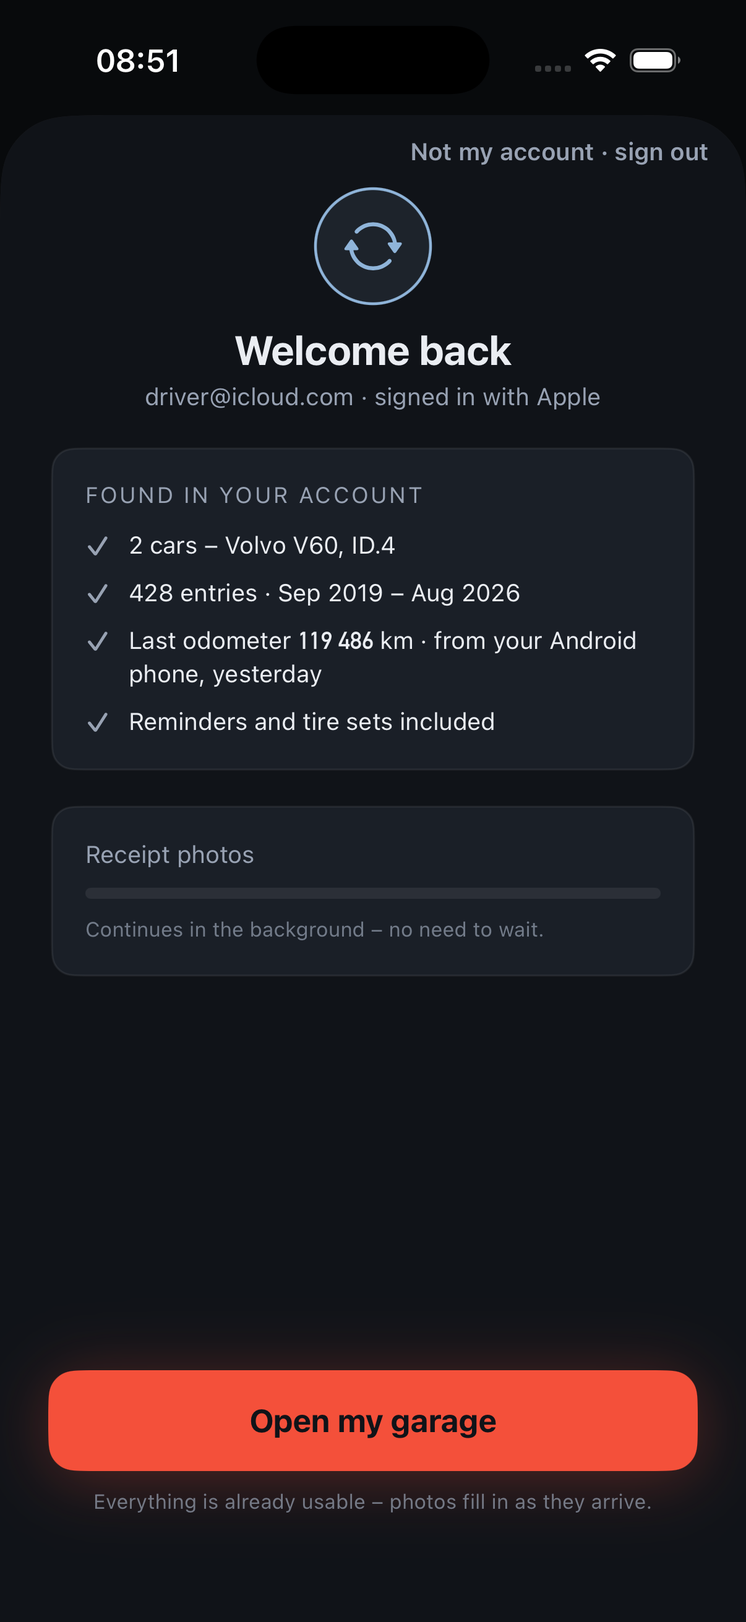
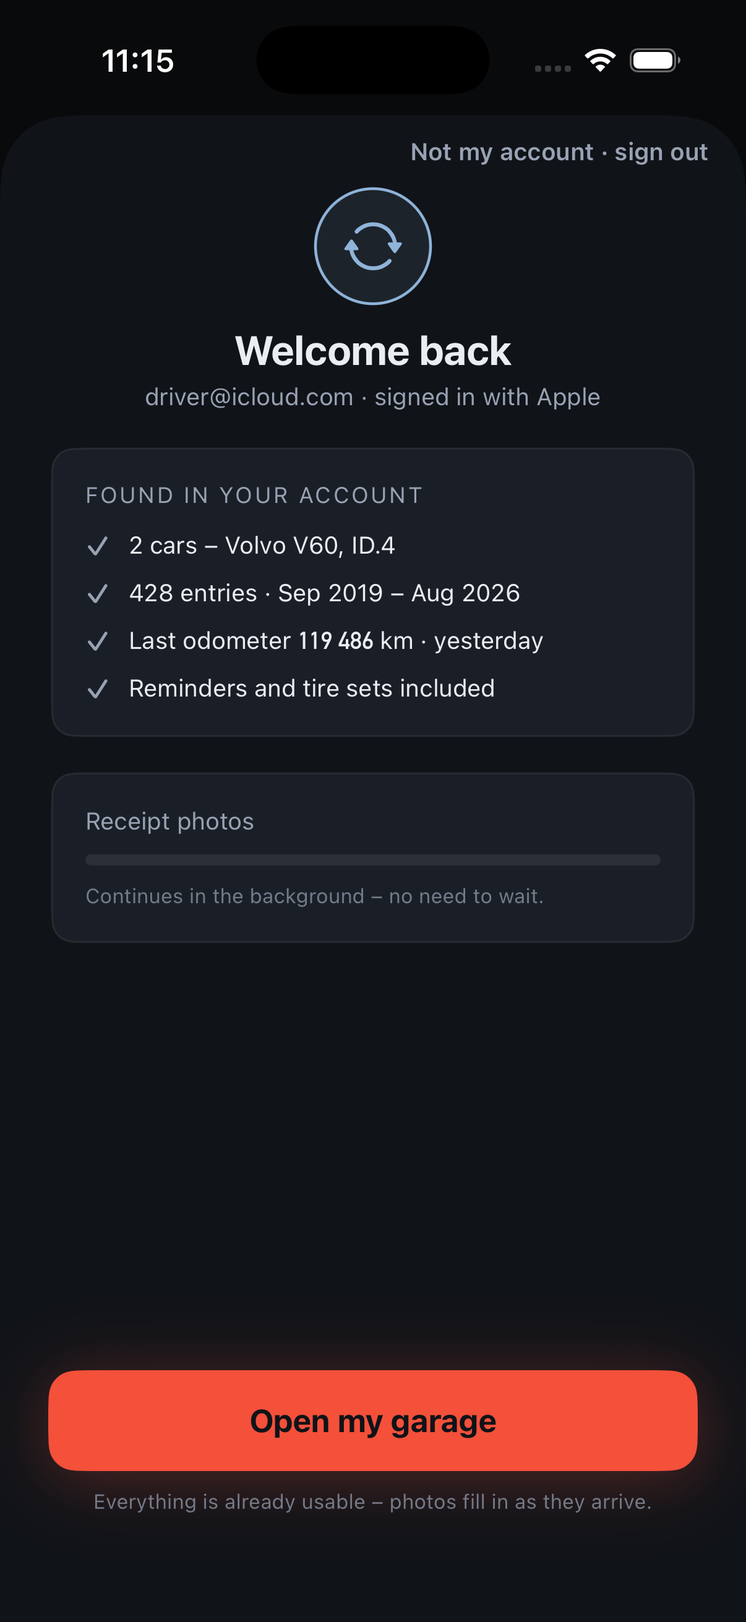
RV.261: the restore screen says how recent the last odometer is; the source device is v2
lastOdometerDaysAgo is derived from the entries and renders as
'N days ago'; the never-set device name and its dead formatter go, and
J11's clause marks the device half [v2] as SCHEMA.md already does.
Mutation red 2/2 in the orchestrator's hands; swift test 0 at 2061,
lint 0, SignInUITests 13/14 (RV.257's flake), Release build 0.

diff --git a/ios/App/UITests/SignInUITests.swift b/ios/App/UITests/SignInUITests.swift
@@ -234,6 +234,43 @@ final class SignInUITests: XCTestCase {
         XCTAssertTrue(app.buttons["restoringSignOutButton"].exists)
     }
 
+    /// RV.261: the last-odometer recency is the v1 half of J11's provenance
+    /// clause. `-signInRestoreDaysAgo 3` seeds the plural form so the suffix is
+    /// asserted as "N days ago"; the source device ("from your Android phone")
+    /// is [v2] and must never render.
+    func testRestoringScreenShowsTheLastOdometerRecency() {
+        let app = launch(["-presentScreen", "signIn", "-signInRestore",
+                          "-signInRestoreDaysAgo", "3"])
+
+        XCTAssertTrue(app.buttons["restoringOpenGarageButton"].waitForExistence(timeout: 10))
+
+        let odometer = app.staticTexts.matching(
+            NSPredicate(format: "label CONTAINS %@ AND label CONTAINS %@",
+                        "Last odometer", "3 days ago"))
+        XCTAssertTrue(odometer.firstMatch.exists,
+                      "the last odometer must carry its recency suffix, never a bare number")
+
+        XCTAssertFalse(app.staticTexts.matching(
+            NSPredicate(format: "label CONTAINS %@", "from your")).firstMatch.exists,
+            "the source device is [v2] and must not render in v1")
+    }
+
+    /// RV.261 in Russian: the recency suffix is a full localised phrase, not
+    /// English-in-RU - "3 дня назад" (the `%lld days ago` plural, few form).
+    func testRestoringScreenShowsTheLastOdometerRecencyInRussian() {
+        let app = launch(["-AppleLanguages", "(ru)", "-AppleLocale", "ru_RU",
+                          "-presentScreen", "signIn", "-signInRestore",
+                          "-signInRestoreDaysAgo", "3"])
+
+        XCTAssertTrue(app.buttons["restoringOpenGarageButton"].waitForExistence(timeout: 10))
+
+        let odometer = app.staticTexts.matching(
+            NSPredicate(format: "label CONTAINS %@ AND label CONTAINS %@",
+                        "Последний пробег", "3 дня назад"))
+        XCTAssertTrue(odometer.firstMatch.exists,
+                      "the recency suffix must render in Russian, never English-in-RU")
+    }
+
     // MARK: - The empty-restore recovery entry point (docs/JOURNEYS.md F7)
     /// An empty restore must reach the recovery entry point BEFORE any "add a
     /// car" affordance is usable - the whole point is preventing the user from

diff --git a/ios/App/Sources/SignIn/SignInTestSeed.swift b/ios/App/Sources/SignIn/SignInTestSeed.swift
@@ -39,8 +39,10 @@ enum SignInTestSeed {
     // MARK: - The artboard's restore state
 
     /// The Restoring artboard's "Found in your account" data (2 cars, 428
-    /// entries, last odometer 119 486 km from an Android phone yesterday).
-    static func restoreSnapshot() -> RestoreSnapshot {
+    /// entries, last odometer 119 486 km yesterday). `-signInRestoreDaysAgo N`
+    /// overrides the artboard's "yesterday" (1) so a UI test can pin the plural
+    /// recency suffix ("N days ago") the J11 promise renders.
+    static func restoreSnapshot(_ arguments: [String] = ProcessInfo.processInfo.arguments) -> RestoreSnapshot {
         var start = DateComponents()
         start.year = 2019
         start.month = 9
@@ -56,11 +58,19 @@ enum SignInTestSeed {
             earliestEntry: Calendar.current.date(from: start),
             latestEntry: Calendar.current.date(from: end),
             lastOdometerKm: 119_486,
-            lastOdometerDeviceName: "Android phone",
-            lastOdometerDaysAgo: 1,
+            lastOdometerDaysAgo: restoreDaysAgo(arguments),
             email: "driver@icloud.com",
             provider: .apple
         )
+    }
+
+    /// The last odometer's recency for the artboard snapshot: 1 ("yesterday")
+    /// unless `-signInRestoreDaysAgo N` supplies another whole-day count.
+    private static func restoreDaysAgo(_ arguments: [String]) -> Int {
+        guard let flag = arguments.firstIndex(of: "-signInRestoreDaysAgo"),
+              flag + 1 < arguments.count,
+              let days = Int(arguments[flag + 1]) else { return 1 }
+        return days
     }
 
     // MARK: - Doubles

diff --git a/ios/App/Sources/SignIn/SignInFlow.swift b/ios/App/Sources/SignIn/SignInFlow.swift
@@ -14,7 +14,6 @@ struct RestoreSnapshot: Equatable, Sendable {
     var earliestEntry: Date?
     var latestEntry: Date?
     var lastOdometerKm: Int?
-    var lastOdometerDeviceName: String?
     var lastOdometerDaysAgo: Int?
     var email: String?
     var provider: AuthProvider
@@ -22,10 +21,9 @@ struct RestoreSnapshot: Equatable, Sendable {
 
 extension RestoreSnapshot {
     /// Builds the view snapshot from the restore's verification stats. Device
-    /// attribution ("from your Android phone") is a v2 field (docs/SCHEMA.md:
-    /// author attribution is not a domain field) - nil here, the seed supplies
-    /// it for the artboard state.
-    init(stats: RestoreStats, email: String?, provider: AuthProvider, lastOdometerDeviceName: String? = nil) {
+    /// attribution ("from your Android phone") is a [v2] field (docs/SCHEMA.md:
+    /// author attribution is not a domain field), so it is not carried here.
+    init(stats: RestoreStats, email: String?, provider: AuthProvider) {
         self.carCount = stats.carCount
         self.carNames = stats.carNames
         self.entryCount = stats.entryCount
@@ -33,7 +31,6 @@ extension RestoreSnapshot {
         self.latestEntry = stats.latestEntry
         self.lastOdometerKm = stats.lastOdometerKm
         self.lastOdometerDaysAgo = stats.lastOdometerDaysAgo
-        self.lastOdometerDeviceName = lastOdometerDeviceName
         self.email = email
         self.provider = provider
     }

diff --git a/ios/App/Sources/Localization/L10n.swift b/ios/App/Sources/Localization/L10n.swift
@@ -256,17 +256,9 @@ enum L10n {
         String(localized: "\(count) entries")
     }
 
-    /// "from your Android phone, yesterday" - the last-odometer provenance. One
-    /// full localised phrase: the device name and the relative day are runtime
-    /// data sharing the sentence, never concatenated. RU reads "%1$@, %2$@" -
-    /// the device name in the nominative head, then the day - because a
-    /// server-supplied device name cannot be declined (the P4.7 lesson: no
-    /// translation of "с вашего %1$@" is correct, only a different shape).
-    static func lastOdometerSource(deviceName: String, daysAgo: Int) -> String {
-        String(format: localize("from your %1$@, %2$@"), deviceName, relativeDay(daysAgo))
-    }
-
-    /// "today" / "yesterday" / "3 days ago" (plural).
+    /// "today" / "yesterday" / "3 days ago" (plural). The Restoring screen's
+    /// last-odometer recency is the v1 half of J11's provenance clause; the
+    /// source device ("from your Android phone") is [v2].
     static func relativeDay(_ daysAgo: Int) -> String {
         switch daysAgo {
         case 0: localize("today")

diff --git a/ios/App/Sources/SignIn/RestoringView.swift b/ios/App/Sources/SignIn/RestoringView.swift
@@ -119,15 +119,15 @@ struct RestoringView: View {
                 .font(.custom(AppFonts.dinAlternateBold, size: 13))
                 .bold()
             + Text(verbatim: " \(L10n.distanceUnit(.km))")
-            + Text(verbatim: sourceSuffix)
+            + Text(verbatim: recencySuffix)
     }
 
-    private var sourceSuffix: String {
-        guard let device = snapshot.lastOdometerDeviceName,
-              let daysAgo = snapshot.lastOdometerDaysAgo else {
-            return ""
-        }
-        return " · \(L10n.lastOdometerSource(deviceName: L10n.localize(device), daysAgo: daysAgo))"
+    /// " · yesterday" - how recent the last odometer is. The v1 half of J11's
+    /// provenance clause; the source device ("from your Android phone") is [v2]
+    /// (docs/SCHEMA.md -> author attribution) and is never rendered here.
+    private var recencySuffix: String {
+        guard let daysAgo = snapshot.lastOdometerDaysAgo else { return "" }
+        return " · \(L10n.relativeDay(daysAgo))"
     }
 
     private func foundRow(_ text: Text) -> some View {

diff --git a/docs/TASKS.md b/docs/TASKS.md
@@ -101,7 +101,7 @@ dispatch ledger moved to `docs/TASKS-HISTORY.md`.*
 | RV.258 | no-scenario: test determinism (the app-target unit bundle) The four real-center ReminderNotific | `[ ]` | below · PJ · Journeys review (2026-08-29) |
 | RV.259 | (F7 restore fails or comes back empty - "truly nothing found"; J11a the wrong-provider handoff) | `[x]` | below · PJ · Journeys review (2026-08-29) |
 | RV.260 | (J11 new phone - "the local file export always available as the user-held fallback"; F7 source | `[x]` | below · PJ · Journeys review (2026-08-29) |
-| RV.261 | (J11 new phone - the restore screen's "last odometer with its source device") J11 promises "las | `[ ]` | below · PJ · Journeys review (2026-08-29) |
+| RV.261 | (J11 new phone - the restore screen's "last odometer with its source device") J11 promises "las | `[x]` | below · PJ · Journeys review (2026-08-29) |
 | RV.243 | (J3 the 5-second fill-up - the pre-fill is a default input; F2 scan recognized WRONG data) A fu | `[ ]` | below · PJ · Journeys review (2026-08-29) |
 | PJ.60 | (J7b purchase / J7d a reminder is born) Expense.recurrence is written nil and read nowhere | `[ ]` | below · PJ · Journeys review (2026-08-29) |
 | PJ.61 | DECIDED 2026-09-11 (product owner): option 2 - a partNumber field on the v1 item editor | `[x]` | below · PJ · Journeys review (2026-08-29) |
@@ -818,7 +818,7 @@ route through (Welcome, Reminders, the S5 notice, the post-sign-in push) exist o
 | **[ ]** RV.258 | no-scenario: test determinism (the app-target unit bundle) **The four real-center `ReminderNotificationActionTests` pass or fail with the simulator's notification daemon, on the same tree, the same day.** 201/201 in the morning of 2026-09-12, 197/201 from midday on, unchanged by a simulator shutdown and by an erase; their own comment (`ReminderNotificationActionTests.swift:200`) documents the daemon dropping every `add` from a test-hosted process, and the recording-scheduler siblings already cover the orchestration. A gate that is red for reasons the tree cannot change is a gate people learn to ignore | Probe the center once per run (arm one request, read it back); when the daemon drops it, `XCTSkip` the four real-center tests with the documented reason, so the bundle's count says what was actually verified | The bundle reports the skip count on a dropping host and runs all four on a serving one; **mutation**: break the recording-scheduler sibling and it still goes red. **Vacuous trap**: deleting the real-center tests, which are the only proof the real center honours the identifiers |
 | **[x]** RV.259 | (F7 restore fails or comes back empty - "truly nothing found"; J11a the wrong-provider handoff) **A restore-door user whose account is empty on BOTH providers is asked the wrong-provider question forever.** Found by the 2026-09-12 F7 scenario review (`diagnostics/REVIEW-SCENARIO-F7-2026-09-12.md`), the one hole holding the verdict. `SignInFlow.performRestore`'s `.empty` arm (`SignInFlow.swift:312-324`) routes to `.wrongProvider` whenever `arrivedViaRestore && SignInView.offersGoogle`; `switchProvider` (`:183-186`) signs out and starts the other provider with no memory of having switched, so the second empty account re-asks the reverse question, and neither question offers F7's recovery entry point (import a file) or Start fresh. **Latent in the Release build** - `GoogleClientID` ships empty, `offersGoogle` is false, an empty restore goes straight to `.emptyRestore` - and real the moment Google is provisioned (SH.4) | One decision: once the user has switched provider, a second `.empty` outcome resolves to `.emptyRestore` - the F7 recovery screen with its import and Start fresh doors - never `.wrongProvider` a second time. A `didSwitchProvider` flag set in `switchProvider`, read in the `.empty` arm, cleared with the flow | L1 `SignInFlow`: with the flag set, `.empty` resolves to `.emptyRestore`. L4 `SignInUITests` EN + RU under a seed that offers Google: switch provider, second provider also empty, lands on the empty-restore screen. **Mutation**: never set the flag; the L1 goes red. **Vacuous trap**: a seed with Google off, where the question is never asked **Shipped 2026-09-12** (flash). **Fix**: `SignInFlow.didSwitchProvider`, set by `switchProvider` after its `signOutLocally()` (which resets it), read by the `.empty` arm - a second empty account resolves to `.emptyRestore` with its two doors, never a second `.wrongProvider`. `offersGoogle` needs no new launch argument: the Debug build carries a placeholder `GoogleClientID`. **Sibling** `.unreachable` after a switch deliberately unchanged - reachability says nothing about which account holds the data - and pinned by a test. `JOURNEYS.md` F7 and `ERRORS.md` say what follows a switch. **Mutation (orchestrator-run)**: never setting the flag turns 3 of the 4 new `SignInFlowTests` red (*expected phase emptyRestore, got wrongProvider(google)*); restored, 4/4. Gates in the orchestrator's hands: `swift test` 0 at **2060 / 249**, lint 0, `SignInUITests` **11/12** (the one failure is [RV.257]'s), `TankbookTests` with only [RV.258]'s four real-center reminder tests red. Screenshots opened: EN and RU empty-restore screen after the switch, dark, both doors present. The `P4.7-restore-empty` alias source was re-shot from this build in the same change. |
 | **[x]** RV.260 | (J11 new phone - "the local file export always available as the user-held fallback"; F7 source 3 "import a file you exported yourself") **The restore-from-export door does not exist: "Import a file you exported yourself" opens the third-party importer, which cannot read a Tankbook backup.** Found by the 2026-09-12 J11 scenario review (`diagnostics/REVIEW-SCENARIO-J11-2026-09-12.md`), verified by the orchestrator: `VehicleArchiveReader.importArchive` (`Backup/VehicleArchiveReader.swift:51`) has **zero callers in `ios/App/Sources`**; the export side is real (`ExportBuilder.buildAccountArchive` / `buildCarExport` write the `SCHEMA.md` -> Backup format archive); both restore-failure rows (`RestoreFailureViews.swift:72,194`) link `Route.importWizard`, whose picker parses MFM/Drivvo through `/import/parse`. A user whose sync restore failed and who exported taps the fallback and lands on a wizard that rejects their file - a dead end on the screen that exists to prevent data loss (hard rules 7, 8; rule 1: this path must be local) | **Build the door**: a local picker that accepts a Tankbook backup archive (per-car or account) and runs `VehicleArchiveReader.importArchive` - no network, no `/import/parse`. Reachable from both restore-failure screens (their row becomes the Tankbook-backup door; the third-party wizard keeps its own door beside it or one step in) and from Settings beside Export. `guardScope` stays the guard: a `vehicle` archive is never treated as an account restore | L1: `VehicleArchiveTests` round-trip already green. L4 `SignInUITests` EN + RU: a seeded backup archive, tap the row, the archive's car and entries appear on Home - not the source picker. L1: a `vehicle`-scope archive offered as an account restore is refused with the named reason. **Mutation**: point the row back at `Route.importWizard`; the L4 goes red. **Vacuous traps**: asserting the picker opened; a test whose archive is built in the test rather than by `ExportBuilder` **Shipped 2026-09-12** (flash). **Built**: `Route.restoreFromBackup` -> `RestoreFromBackupView` + `RestoreFromBackupModel` (`ios/App/Sources/Backup/`): `.fileImporter` for the backup FOLDER (the archive is a directory - `manifest.json`, `data.json`, `attachments/` - exactly what `ExportBuilder` hands the share sheet), staged through the RV.73 security-scope stager, then `VehicleArchiveReader.importArchive(mode: .singleCar)`. No network, no `/import/parse`, no session. `guardScope` untouched: an account archive is refused with `scopeMismatch` and the screen names the next step (`ERRORS.md`, new table). **Doors**: both restore-failure screens carry the backup door FIRST and keep the third-party wizard beside it ("Import from another app") - beside, not one step in, because burying a foreign-file import inside a fallback makes it a fallback of a fallback; Settings gets the door beside Export. `SCREENMAP.md`, `JOURNEYS.md` J11 + F7, `ScreenRouteBindings` updated. Debug seam builds the archive through the REAL `ExportBuilder.buildCarExport` and hard-deletes the car, so the import is what puts it back. **Sibling audit (deliverable)**: the only public `Backup/` reader with no app caller is `VehicleArchiveReader.readManifest(at:)` - its doc says the restore UI opens it first; the UI calls `importArchive` directly. Not a dead feature; no row filed. **Mutation (orchestrator-run)**: the backup row pointed back at `Route.importWizard` turns the restore-to-Home L4 red; restored, 4/4. Gates in the orchestrator's hands: `swift test` 0 at **2061 / 249**, lint 0, `RestoreFromBackupUITests` **4/4**, `SettingsUITests` **24/24** (the agent reported 21 failures on its host - not reproduced), Release build 0 (DEBUG seam), `TankbookTests` red only on [RV.258]'s four. Four screenshots opened: the new screen and the three-door recovery card, EN and RU, dark. |
-| **[ ]** RV.261 | (J11 new phone - the restore screen's "last odometer with its source device") **J11 promises "last odometer with its source device - from your Android phone, yesterday"; the field is documented v2 and renders nothing.** Found by the 2026-09-12 J11 scenario review: `SCHEMA.md:24` and `ERRORS.md:366` already mark the source device `[v2]`, `JOURNEYS.md:518` does not, and the restore screen shows "Last odometer N km" with neither source nor recency - an overreach invisible to every test | Reconcile: mark the source-device half `[v2]` in J11's text; keep the v1-computable recency (`RestoreSnapshot.lastOdometerDaysAgo`) and render "N days ago" without a device name - or strike the clause if both halves are v2, and say why | Doc: J11, `SCHEMA.md`, `ERRORS.md`, `RestoreSnapshot` agree on v1 vs v2. If recency is kept: L4 `SignInUITests` asserts the "N days ago" suffix from a seeded `lastOdometerDaysAgo` with no device name; **mutation**: drop the suffix, red |
+| **[x]** RV.261 | (J11 new phone - the restore screen's "last odometer with its source device") **J11 promises "last odometer with its source device - from your Android phone, yesterday"; the field is documented v2 and renders nothing.** Found by the 2026-09-12 J11 scenario review: `SCHEMA.md:24` and `ERRORS.md:366` already mark the source device `[v2]`, `JOURNEYS.md:518` does not, and the restore screen shows "Last odometer N km" with neither source nor recency - an overreach invisible to every test | Reconcile: mark the source-device half `[v2]` in J11's text; keep the v1-computable recency (`RestoreSnapshot.lastOdometerDaysAgo`) and render "N days ago" without a device name - or strike the clause if both halves are v2, and say why | Doc: J11, `SCHEMA.md`, `ERRORS.md`, `RestoreSnapshot` agree on v1 vs v2. If recency is kept: L4 `SignInUITests` asserts the "N days ago" suffix from a seeded `lastOdometerDaysAgo` with no device name; **mutation**: drop the suffix, red **Shipped 2026-09-12** (flash). **One way: the recency is kept, the device is v2.** `lastOdometerDaysAgo` is honestly v1 (`RestoreStats.compute` derives it from the entry dates), so the Restoring screen now renders "Last odometer N km · 3 days ago" (`RestoringView.recencySuffix`); the always-nil `RestoreSnapshot.lastOdometerDeviceName` and the dead `L10n.lastOdometerSource` are removed (a planned-feature placeholder, forbidden by the comment rule); J11's text marks the source device `[v2]`, matching `SCHEMA.md` and `ERRORS.md`. `-signInRestoreDaysAgo N` seeds the plural. **Mutation (orchestrator-run)**: an empty suffix turns both new L4s red (*the last odometer must carry its recency suffix, never a bare number*); restored, 2/2. Gates in the orchestrator's hands: `swift test` 0 at **2061 / 249**, lint 0, `SignInUITests` **13/14** (the one failure is [RV.257]'s), Release build 0 (DEBUG seam), `TankbookTests` red only on [RV.258]'s four. Screenshots opened: EN "3 days ago", RU "3 дня назад" (the correct plural), and the re-shot `P4.7-restoring` pair ("вчера"). The catalogue key `from your %1$@, %2$@` is orphaned for v2. |
 | **[ ]** RV.243 | (J3 the 5-second fill-up - the pre-fill is a default input; F2 scan recognized WRONG data) **A fuel kind is committed from till boilerplate: `receipt-062` reads `fuelKind = lpg` off the footnote `1 ед.=1 литр для нефтепродуктов/СУГ`.** Found 2026-09-11 by registering two RN-Tver PetrolPlus slips from one till, two minutes apart: `receipt-063` sweeps 5/5; on `receipt-062` Vision reads the product line as `МИ95ФИРМ` at confidence 1.00, the `95` marker is lost, and `FuelKindNormalizer` then takes `/СУГ` from a footnote **every** RN-Tver slip prints and commits **lpg** - a confident-wrong kind on a petrol fill, pre-filled on Confirm looking exactly like a right one (the same shape as [RV.153] for the total). The paired `pump-085` and the slip both say АИ95. The footnote lists what the till can sell; it is the receipt-side twin of the pump rule "a visible grade is evidence the station sells it, never that this fill used it" (`fixtures/pump/README.md`) | Restrict where a fuel-kind marker may come from: the product/line-item block, never a line that is unit legend or boilerplate (`1 ед.=`, `для нефтепродуктов`, `/СУГ` as a slash-list). Prefer abstaining (nil) over a kind read from a line that also names another kind. Do NOT fix it by teaching the normalizer `МИ95` - that is the OCR glyph, not the parser | L1 over `receipt-062`'s dump: `fuelKind` is nil or petrol95, never lpg; `receipt-063` still resolves petrol95; a whole-class check that no receipt commits a fuelKind its `expected.csv` contradicts, so the next one fails too. Ratchet not below 255/300 | `fixtures/HIGH-WATER.md` -> "A fuel kind read from boilerplate" |
 | **[ ]** PJ.60 | (J7b purchase / J7d a reminder is born) **`Expense.recurrence` is written `nil` and read nowhere.** Found by `REVIEW-SERVICE`'s J7/J7b/J7d/J7c walk, 2026-09-10. `SCHEMA.md:237` promises a recurring expense - *"yearly insurance"* - and the REMINDER half of that is already met by the shipped `ReminderOffer`; the **next-entry** half is unbuilt, so the column, the `RecurrenceRule` type and the `Codable` conformance exist with zero function. `RV.196`'s field guard does not report it because `Expense` shares a `###` heading with `ServiceRecord` (see `PJ.63`) | **Decide drop-or-write and record it in `docs/SCHEMA.md`.** The honest answers are *delete the field, its type and its migration column*, or *give it a writer AND a reader for the next-entry half*. **A silent dead column is not one of them** | L1: `recurrence` is gone from type, migration, schema and decoder - or a production writer and reader exist. A grep must show no `recurrence:` assigned only `nil` | Nothing user-visible today: the insurance reminder works through a different path |
 | **[x]** PJ.61 | **DECIDED 2026-09-11 (product owner): option 2 - a `partNumber` field on the v1 item editor.** After [RV.207]. (J7b the parts shelf) **`ServiceItem.partNumber` is written `nil` and read nowhere.** Found by `REVIEW-SERVICE`, 2026-09-10: `nil` at `ServiceEntryDraft.swift:12` and `ImportConversion.swift:147`, read nowhere, and **not editable even after [PJ.23]** shipped the item editor. `SCHEMA.md:228` promises it | **The v2 parts shelf ([PJ.52]) is its natural owner, so the honest v1 answer is a WRITTEN REASON, not a phantom writer.** Record it as a reasoned `RV.196` exception naming PJ.52 - or give it a writer in the item editor if the product wants it in v1 | L1: a reasoned exception names the v2 owner, or a writer lands. A grep must show no non-nil `partNumber` construction | `PJ.23` deliberately PRESERVES it on save, so the field survives an edit; it just cannot be set | **DONE 2026-09-12 (product owner's option 2).** `partNumber` has a real writer: one `ServiceItemPartNumberField` on the edit card AND the create card, and the draft->item conversion passes the draft's own value - clearing clears, a delete never shifts a neighbour's. **The guard loop closes a fifth time**: [RV.207]'s exception is deleted and `SchemaFieldWriterGuardNewEntityTests.theEditedPartNumberIsWrittenAndNotReported` now fails if the field goes dead again. **Mutation (orchestrator-run)**: forwarding `original?.partNumber` instead of the draft's value turns the guard red naming `ServiceItem.partNumber`; restored byte-identical. Gates in the orchestrator's hands: `swift test` 0 at **2027 tests / 245 suites** (`RV.203` re-run alone 5/5), lint 0, `PJ61ServiceItemPartNumberTests` 4/4; agent's `RELEASE=1 gate.sh` 0. Screenshots EN+RU opened: *НОМЕР ДЕТАЛИ · MANN W 712/75* under the lifetime fields, fits the narrow card. **Found by the orchestrator, fixed in this commit**: the taller item rows made four `RV.198`/`RV.199` UI tests tap the pinned Save bar instead of *Add line item* - `isHittable` was `true` with the button's centre 7 pt under the bar (measured: add `y=662-697`, bar `y=669-722`), the app went to Home, and the count read 0. Both `scrollTo` helpers now require the element clear of the bar's frame, not merely hittable - the `RV.80`/`PJ.7e` lie, pinned. `EditEntryUITests` 40/40 after. |

diff --git a/docs/JOURNEYS.md b/docs/JOURNEYS.md
@@ -515,7 +515,7 @@ in `docs/NOTIFICATIONS.md` -> the actions.)*
 ### J11 · New phone / platform switch
 **Trigger:** bought a new iPhone – or, later, moved to Android.
 **Entry points:** on a fresh install, the Welcome screen's restore line – "Already use Tankbook? Restore your garage." – exists precisely for this (an Android→iOS migrant or a reinstall must never be funneled into "Add your car" as if they were new); on a running app, Settings' account card.
-**Journey:** Welcome → Sign in (Apple ID / Google – the same account works across platforms, that's the whole point of the neutral identity) → the "Welcome back" restore screen shows the F7 verification stats *before* finishing (cars, entry count, date range, last odometer with its source device – "from your Android phone, yesterday") → text records land in seconds, the garage is immediately usable, photos download in the background by recency → "Open my garage." ⚠ The category's graveyard moment (Fuelly, Мой Авто) → restore must be boringly reliable, tested in CI, and the local file export always available as the user-held fallback. **RV.260 (2026-09-12): the fallback is a Tankbook backup restored LOCALLY** – the per-car export (`buildCarExport`) read back by "Restore from backup", with no account and no network. The third-party import wizard (My Fuel Manager / Drivvo) is a separate door and cannot read a Tankbook archive; a full-account export is refused locally with its named next step, because a whole-account restore is the sync path's job.
+**Journey:** Welcome → Sign in (Apple ID / Google – the same account works across platforms, that's the whole point of the neutral identity) → the "Welcome back" restore screen shows the F7 verification stats *before* finishing (cars, entry count, date range, last odometer and how recent it is – "yesterday"; the source device – "from your Android phone" – is **[v2]**, `docs/SCHEMA.md` → author attribution) → text records land in seconds, the garage is immediately usable, photos download in the background by recency → "Open my garage." ⚠ The category's graveyard moment (Fuelly, Мой Авто) → restore must be boringly reliable, tested in CI, and the local file export always available as the user-held fallback. **RV.260 (2026-09-12): the fallback is a Tankbook backup restored LOCALLY** – the per-car export (`buildCarExport`) read back by "Restore from backup", with no account and no network. The third-party import wizard (My Fuel Manager / Drivvo) is a separate door and cannot read a Tankbook archive; a full-account export is refused locally with its named next step, because a whole-account restore is the sync path's job.
 
 **Success metric:** restore success ≥99.5%; zero data-loss reviews – the reviews that kill this category.
 
